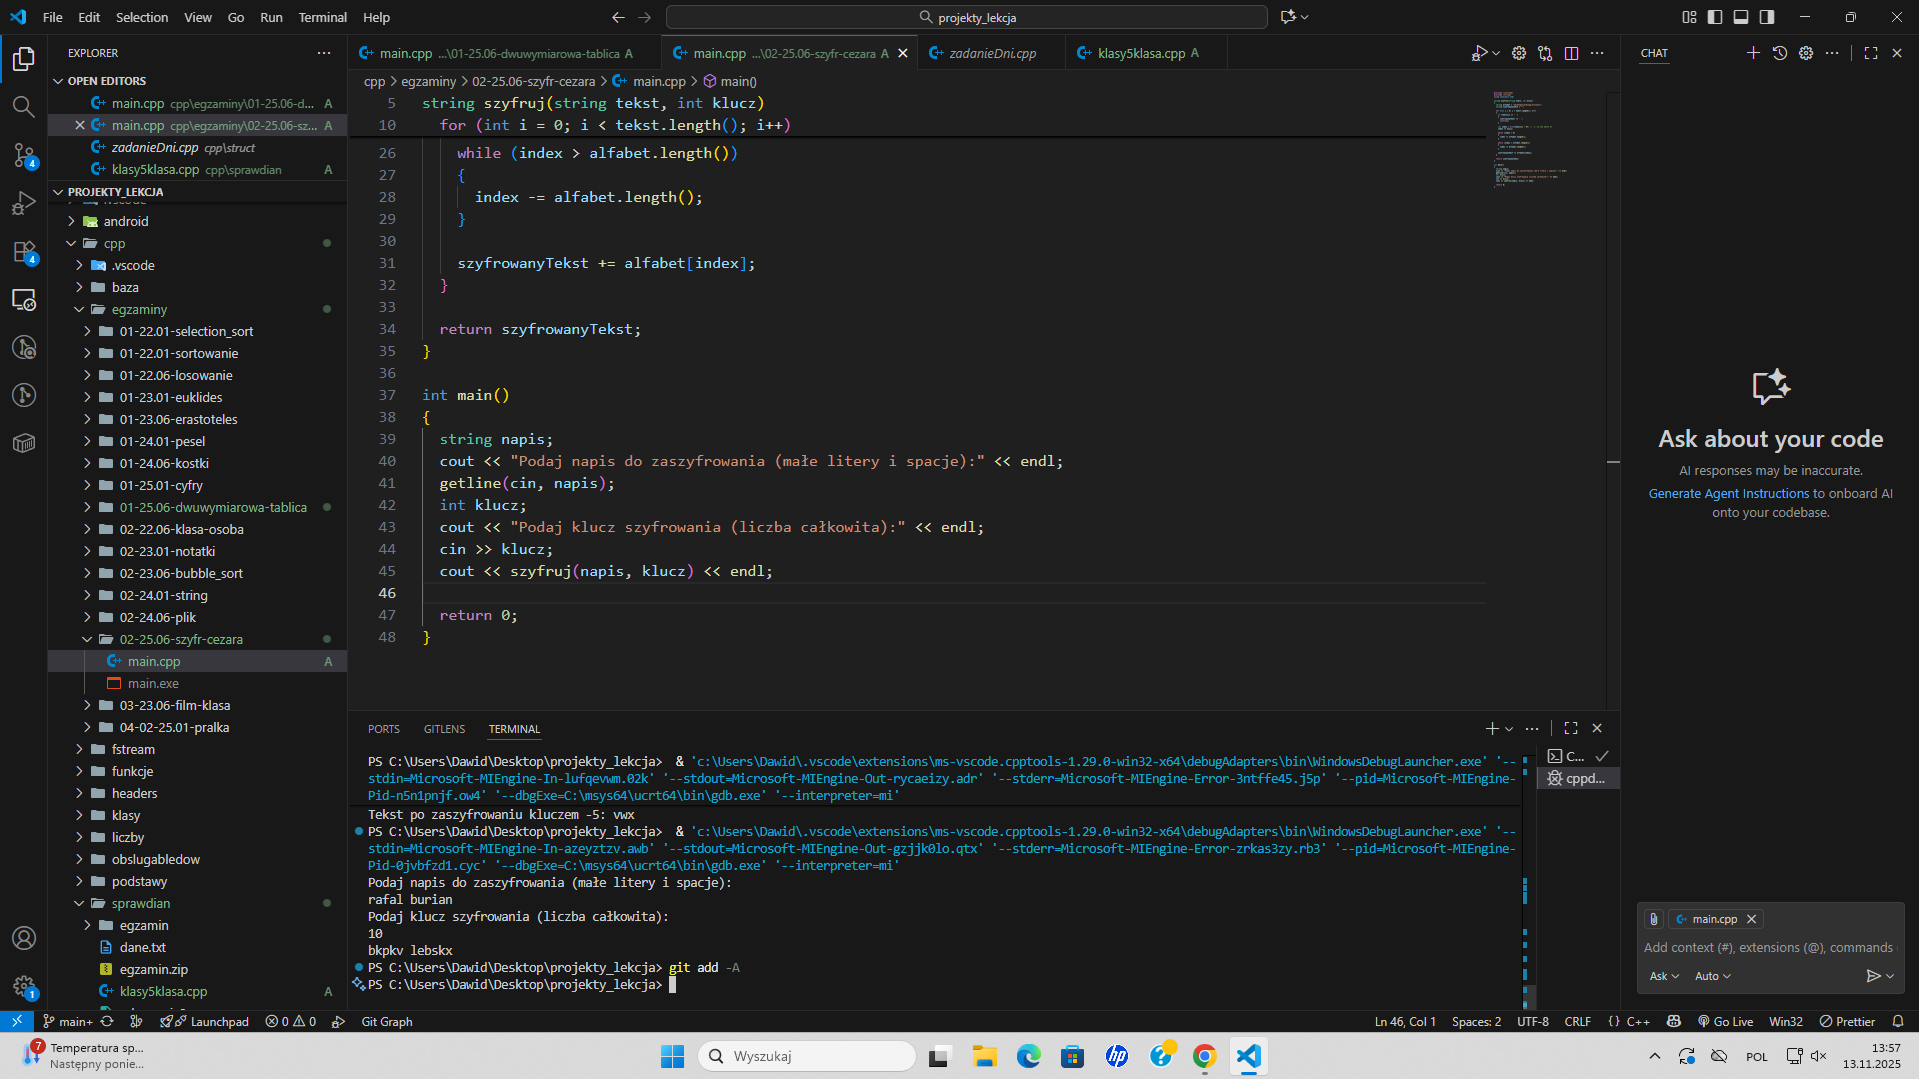
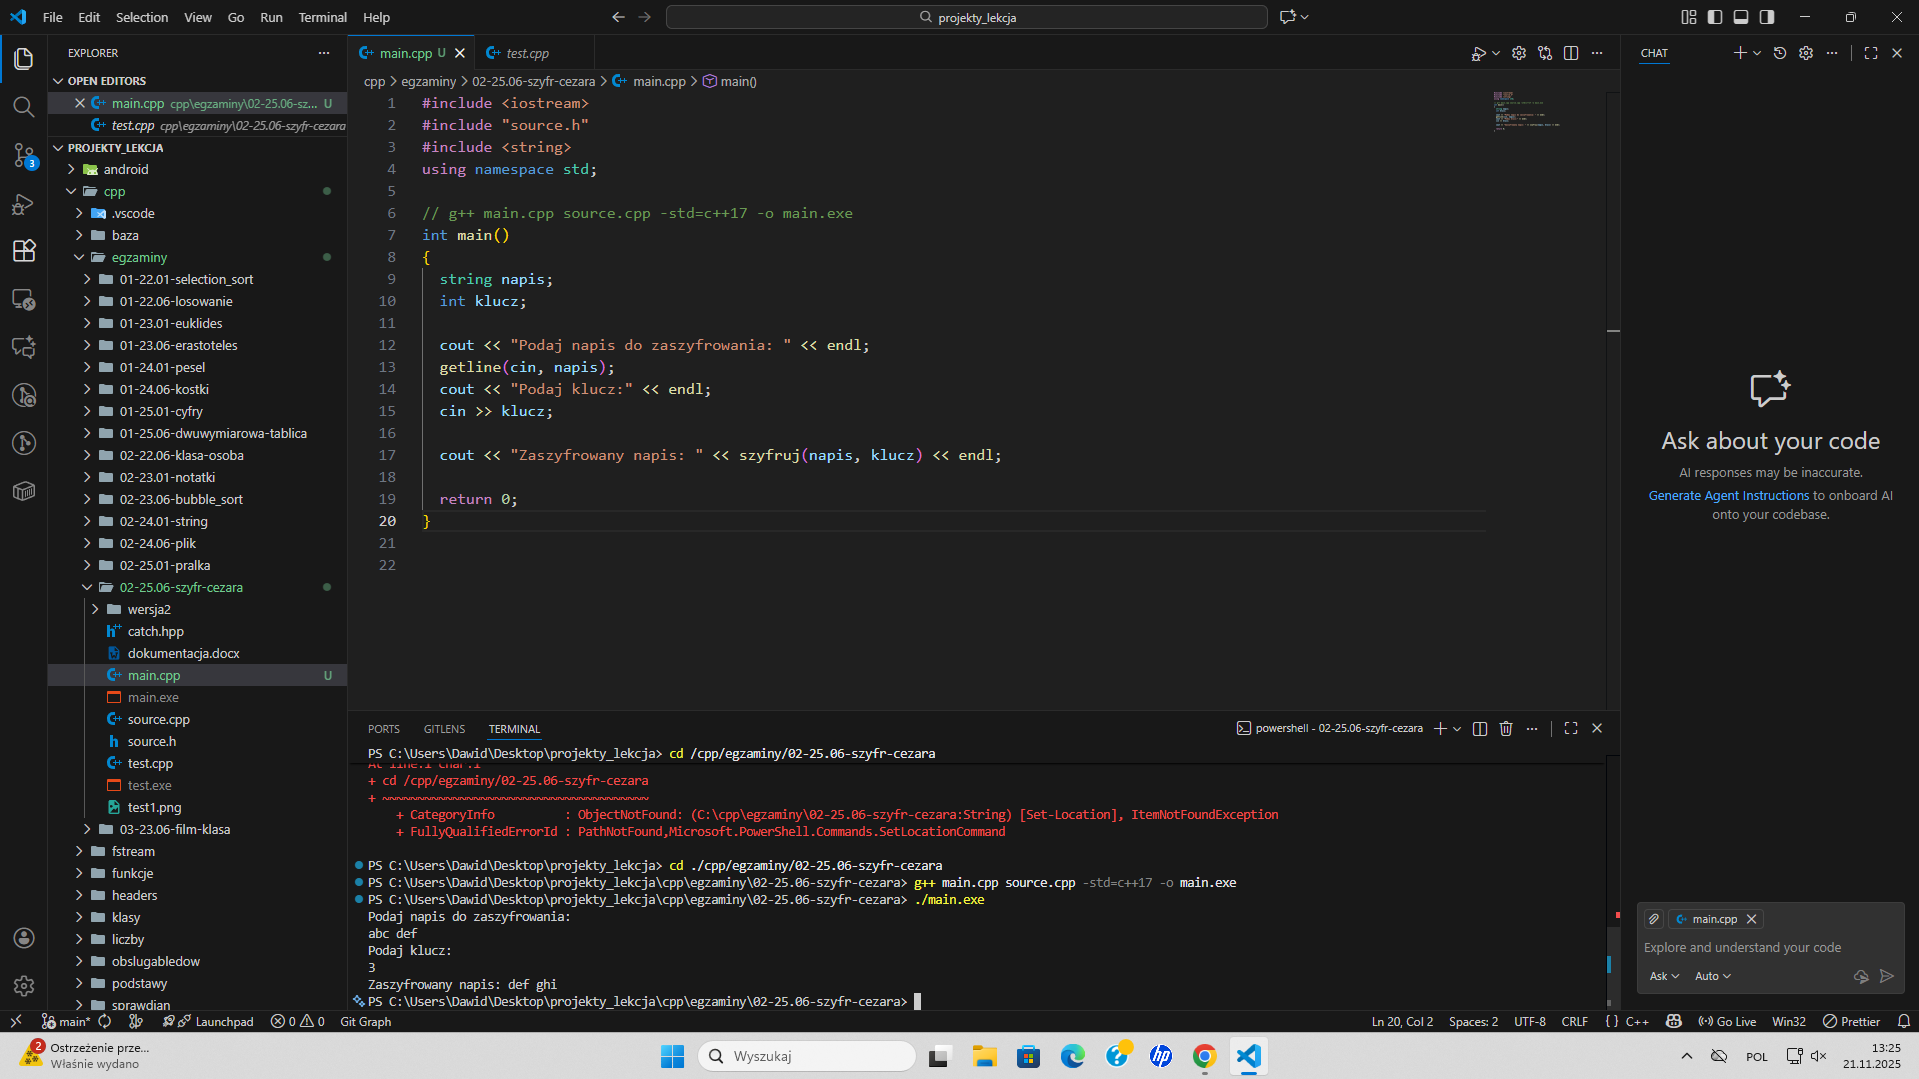
update

diff --git a/cpp/egzaminy/02-25.06-szyfr-cezara/main.cpp b/cpp/egzaminy/02-25.06-szyfr-cezara/main.cpp
@@ -1,0 +1,21 @@
+#include <iostream>
+#include "source.h"
+#include <string>
+using namespace std;
+
+// g++ main.cpp source.cpp -std=c++17 -o main.exe
+int main()
+{
+  string napis;
+  int klucz;
+
+  cout << "Podaj napis do zaszyfrowania: " << endl;
+  getline(cin, napis);
+  cout << "Podaj klucz:" << endl;
+  cin >> klucz;
+
+  cout << "Zaszyfrowany napis: " << szyfruj(napis, klucz) << endl;
+
+  return 0;
+}
+
